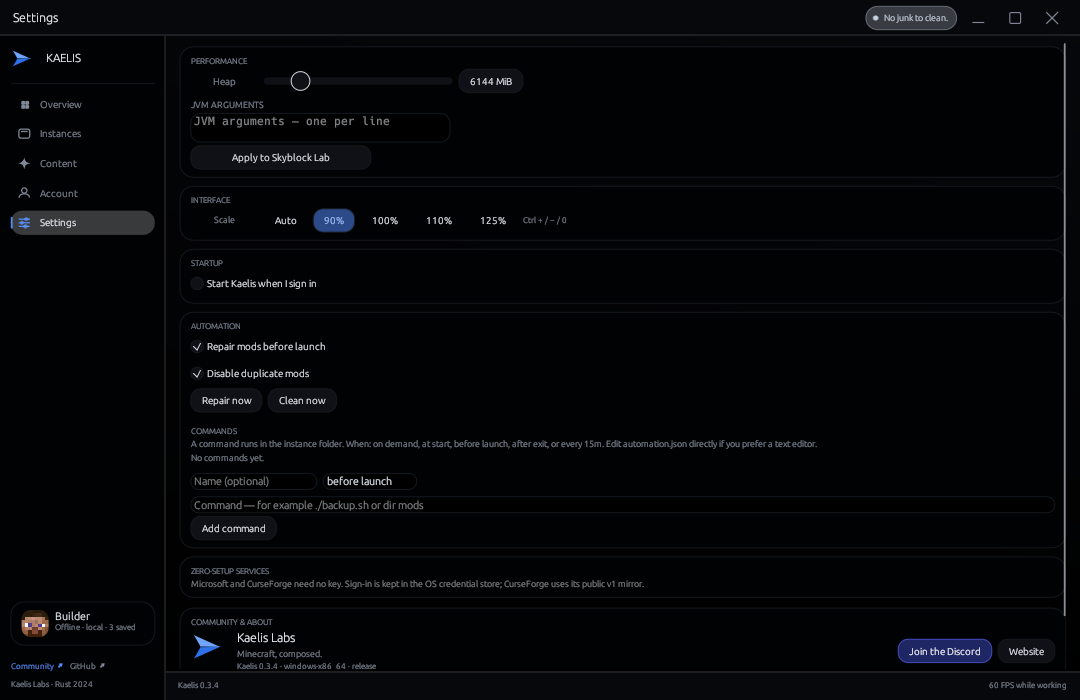
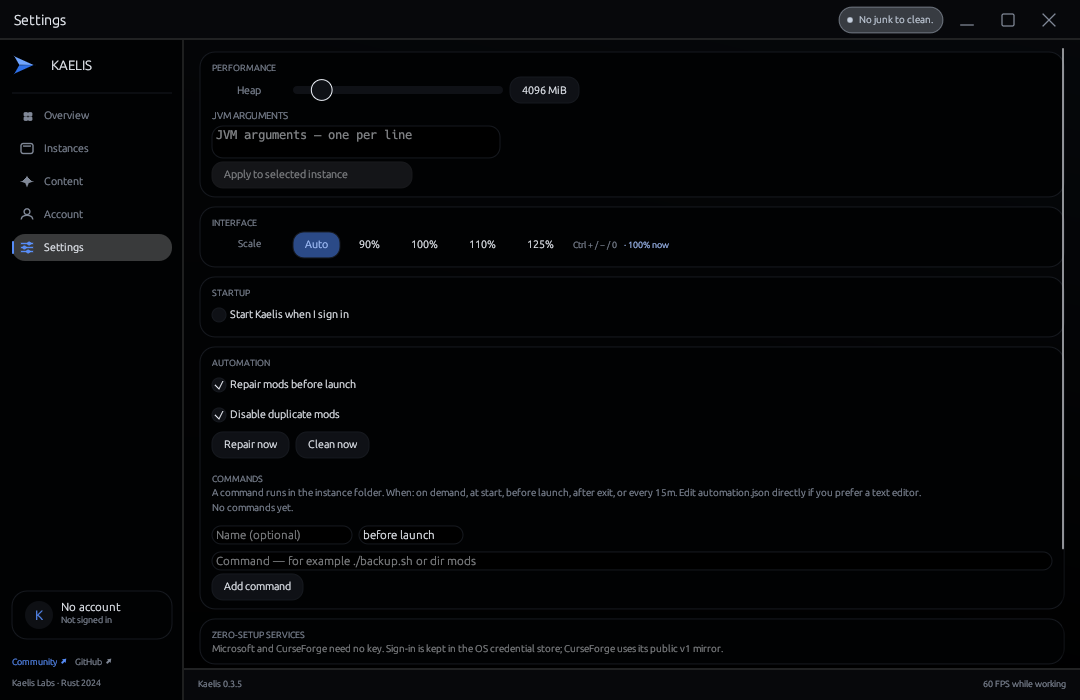
Let the window be made short and cut two waits
The 520 pt height floor came from the first-launch guess, not from the
layout, and the same number guarded the restore check, so a short window
was both blocked at the edge and thrown away on restart. The floor is now
320 pt: header, footer, margins, and the 220 pt body the Content browser
needs, with every other page scrolling. The sidebar also picks its
identity block from the room the tab list leaves, so nothing overlaps
Settings on a short window, and a signed-out avatar reads K instead of
the N it took from "No account". Content search starts after a 200 ms
typing pause instead of 450 ms, and macOS and Linux notice a finished
game every 100 ms instead of 300 ms.

Generated with Codebuff 🤖

diff --git a/site/index.html b/site/index.html
@@ -40,7 +40,7 @@
         "applicationSubCategory": "Minecraft launcher",
         "operatingSystem": "Windows 10, Windows 11, macOS 11, Linux",
         "processorRequirements": "x86_64 or arm64",
-        "softwareVersion": "0.3.4",
+        "softwareVersion": "0.3.5",
         "softwareRequirements": "Rust 1.85+ to build from source; Java is provisioned automatically",
         "downloadUrl": "https://fuvji.github.io/kaelis/downloads/Kaelis-Portable.zip",
         "installUrl": "https://fuvji.github.io/kaelis/#downloads",
@@ -424,7 +424,7 @@
     <div class="shell" id="top">
       <section class="hero" aria-labelledby="hero-title">
         <div>
-          <span class="eyebrow"><i></i>v0.3.4 · Windows · macOS · Linux</span>
+          <span class="eyebrow"><i></i>v0.3.5 · Windows · macOS · Linux</span>
           <h1 id="hero-title">Minecraft,<br><em>composed.</em></h1>
           <p class="lede">Instances, mods, packs, shaders, and accounts in one native workspace. Files stay local. Nothing runs in the background.</p>
           <div class="hero-actions">
@@ -599,7 +599,7 @@
         </div>
 
         <div class="downloads-foot">
-          <span><b style="color:var(--text)">New in 0.3.4</b> · <b style="color:var(--text)">smoothly rounded corners</b> come from the compositor instead of a transparent surface, the window controls are drawn as strokes in the system's own shapes, and <b style="color:var(--text)">every drop shadow is gone</b> — flat surfaces and hairlines do the separating. The window surface is opaque now, which removes a full-surface alpha blend from every frame. <b style="color:var(--text)">The launcher remembers how it was left</b>: the window reopens at the size it was last settled on, and snapshots, alpha and beta versions, required dependencies, the search providers, and search-as-you-type all reopen where they were set. The window is now a <b style="color:var(--text)">frameless overlay</b> — drag its own header to move it, double-click to maximize or restore, one control each to minimize, maximize, and close, and resizing from every edge and corner. Descriptions across the launcher are one line each. Everything from 0.3.1 remains: Play repairs a missing JVM, client jar, library, or loader before it launches, Minecraft's own telemetry is forced off, and Auto Erase Junk keeps every instance clean at 0.00% idle cost.</span>
+          <span><b style="color:var(--text)">New in 0.3.5</b> · <b style="color:var(--text)">the window goes as short as you want</b> — the minimum height drops from 520 to 320 points and a small window is now remembered small instead of snapping back, with the drag limit read straight from the running window at 760×320. The <b style="color:var(--text)">sidebar stops overlapping itself</b>: below 88 points of room the account card becomes the one-button avatar, so all five tabs stay reachable at any height. <b style="color:var(--text)">Two waits are gone</b>: a typing pause in Content searches after 200 ms instead of 450 ms, and macOS and Linux notice a finished game every 100 ms instead of every 300 ms. Everything from 0.3.4 remains: rounded corners from the compositor, stroke-drawn controls with no drop shadows, an opaque surface, remembered window size and switches, and the frameless overlay. From 0.3.1: Play repairs a missing JVM, client jar, library, or loader before launch, Minecraft's own telemetry is forced off, and Auto Erase Junk keeps every instance clean at 0.00% idle cost.</span>
           <span>Every tag builds all three platforms in CI and publishes checksums.</span>
           <a href="downloads/KAELIS-LINKS.txt">URL &amp; install index ↗</a>
           <a href="https://github.com/fuvji/kaelis/releases/latest" rel="noreferrer">All releases ↗</a>
@@ -610,9 +610,9 @@
           <summary>Checksums and build provenance</summary>
           <div class="body">
             <p style="margin:0;color:var(--muted);font-size:13px">Every artifact is hashed at release time. Published files: <a href="downloads/SHA256SUMS.txt" style="color:var(--accent-soft)">SHA256SUMS.txt</a> and the generated <a href="downloads/KAELIS-LINKS.txt" style="color:var(--accent-soft)">URL &amp; installation index</a>.</p>
-            <div class="hash"><span>Kaelis.exe</span><code data-release="exe-hash">f323426615ece54a4977a5f367b9f096a34cee6f3187633c9fbe0275c5e68444</code></div>
-            <div class="hash"><span>Kaelis-Portable.zip</span><code data-release="zip-hash">071ccbcd7d067a83573c4ab04b655b1f0f26b1743e074de1c756b2181dcf6aac</code></div>
-            <div class="hash"><span>Kaelis-Setup.exe</span><code data-release="setup-hash">732a9c026ee9544e8a338070ee098b20a81eea8e59c8b97be6545df47af4ab1a</code></div>
+            <div class="hash"><span>Kaelis.exe</span><code data-release="exe-hash">dae96fcd2382e621e5dc185c662ecaa682287edc78b9754ba5259c641e907f01</code></div>
+            <div class="hash"><span>Kaelis-Portable.zip</span><code data-release="zip-hash">2e1f70ad4cc2943922639ac2ac864cc06b95db3a7474d523db7a53e0f2c90533</code></div>
+            <div class="hash"><span>Kaelis-Setup.exe</span><code data-release="setup-hash">e1646abccfb85fe9543e88d0603dd68c15bd714d9b2864702d0e40896579dd62</code></div>
             <div class="hash"><span>Kaelis-macos-universal.dmg</span><code data-release="dmg-hash">6fa2fda1b93f2c01228da3073ce18f3722b7e650bbcd4703eabbe5e7a2b2e9f7</code></div>
             <div class="hash"><span>Kaelis-linux-x64.deb</span><code data-release="deb-hash">e2510545e116a6c29daa32eebc9da1629bff25c4fa14be307cd2de3a57ae3d0d</code></div>
             <div class="hash"><span>Kaelis-linux-x64.AppImage</span><code data-release="appimage-hash">0c34a7aaba346aeb68a284834321db24a72d3fc2fe1f172871d3921c289cea52</code></div>

diff --git a/crates/kaelis-gui/src/lib.rs b/crates/kaelis-gui/src/lib.rs
@@ -96,7 +96,11 @@ const INSTANCE_ICON_BYTES: u64 = 8 * 1024 * 1024;
 /// Stored artwork edge. 256 px covers a 96 px card at 2x and stays small.
 const ARTWORK_EDGE: u32 = 256;
 /// Typing pauses this long before the mod browser queries both platforms.
-const MOD_SEARCH_DEBOUNCE: std::time::Duration = std::time::Duration::from_millis(450);
+///
+/// Long enough to fold a burst of keystrokes into one request, short enough
+/// that the first result does not feel like a wait; an explicit Enter still
+/// searches on the spot.
+const MOD_SEARCH_DEBOUNCE: std::time::Duration = std::time::Duration::from_millis(200);
 /// Results requested per provider per page. Paging, not truncation, is what
 /// keeps the catalogue browsable.
 const MOD_SEARCH_LIMIT: u32 = 30;
@@ -6188,7 +6192,17 @@ impl KaelisApp {
                     ui.add_space(1.0);
                 }
                 ui.with_layout(egui::Layout::bottom_up(egui::Align::LEFT), |ui| {
-                    if rail {
+                    // The identity block is chosen from what the tab list left
+                    // behind, not from a window height: a short window then
+                    // keeps every tab reachable instead of letting the card
+                    // paint over Settings. The rail always takes the compact
+                    // form because its labels do not fit at all.
+                    const FULL_IDENTITY_HEIGHT: f32 = 88.0;
+                    let room = ui.available_height();
+                    if room < 30.0 {
+                        // Not even one button fits; the Account tab above is
+                        // the same destination.
+                    } else if rail || room < FULL_IDENTITY_HEIGHT {
                         // One 30 px identity button: the same click target as
                         // the full card, without a label that cannot fit.
                         let (rect, response) = ui.allocate_exact_size(
@@ -6210,7 +6224,7 @@ impl KaelisApp {
                             ui.painter().text(
                                 rect.center(),
                                 egui::Align2::CENTER_CENTER,
-                                self.account_name().chars().next().unwrap_or('K'),
+                                self.account_initial(),
                                 egui::FontId::proportional(13.0),
                                 accent(),
                             );
@@ -6263,7 +6277,7 @@ impl KaelisApp {
                                     ui.painter().text(
                                         rect.center(),
                                         egui::Align2::CENTER_CENTER,
-                                        self.account_name().chars().next().unwrap_or('K'),
+                                        self.account_initial(),
                                         egui::FontId::proportional(13.5),
                                         accent(),
                                     );
@@ -6314,6 +6328,18 @@ impl KaelisApp {
 
     /// Short identity line for the sidebar card. The saved count makes a
     /// multi-account setup visible without opening the tab.
+    /// One letter for the avatar disc. Signed out there is no identity to
+    /// initial, and the first letter of "No account" read as an N, which looks
+    /// like a real profile; the brand mark is the honest placeholder.
+    fn account_initial(&self) -> char {
+        let signed_in = self.microsoft_session.is_some() || self.offline_account.is_some();
+        if signed_in {
+            self.account_name().chars().next().unwrap_or('K')
+        } else {
+            'K'
+        }
+    }
+
     fn account_kind(&self) -> String {
         let base = if self.microsoft_session.is_some() {
             "Microsoft · online"

diff --git a/crates/kaelis-launcher/src/main.rs b/crates/kaelis-launcher/src/main.rs
@@ -1743,6 +1743,15 @@ fn renderer_attempts(requested: Option<&str>) -> Vec<(eframe::Renderer, &'static
     }
 }
 
+/// Smallest window the launcher will let itself be dragged down to.
+///
+/// The height is what is left once the fixed chrome is removed: the header
+/// strip, the footer, the central margins, and the 220 pt floor the Content
+/// browse body sets for its two panes. Every page body outside that floor
+/// scrolls, so nothing has to grow to fit — the old 520 pt floor was inherited
+/// from the first-launch guess and only stopped the window being made short.
+const MIN_WINDOW_SIZE: [f32; 2] = [760.0, 320.0];
+
 /// The inner size to open the window at.
 ///
 /// Only a plausible saved size is restored: below the window's own minimum, or
@@ -1750,7 +1759,8 @@ fn renderer_attempts(requested: Option<&str>) -> Vec<(eframe::Renderer, &'static
 /// is used instead. `[0.0, 0.0]` means "never resized", so a first launch is
 /// never a guess.
 fn restored_window_size(saved: [f32; 2]) -> [f32; 2] {
-    if (760.0..=8192.0).contains(&saved[0]) && (520.0..=8192.0).contains(&saved[1]) {
+    let [min_width, min_height] = MIN_WINDOW_SIZE;
+    if (min_width..=8192.0).contains(&saved[0]) && (min_height..=8192.0).contains(&saved[1]) {
         saved
     } else {
         [1080.0, 700.0]
@@ -1777,7 +1787,7 @@ fn native_options(
             // Fits a 1366×768 laptop with the taskbar visible; eframe restores
             // the last size and position once the window has been moved.
             .with_inner_size(window_size)
-            .with_min_inner_size([760.0, 520.0])
+            .with_min_inner_size(MIN_WINDOW_SIZE)
             // The launcher draws its own header strip, drag handle, and window
             // controls, so the native title bar is redundant chrome: removing
             // it leaves the panel edge to edge and takes the OS frame's work
@@ -1839,8 +1849,8 @@ fn fail(message: String) -> ExitCode {
 #[cfg(test)]
 mod tests {
     use super::{
-        Action, MAX_REDIRECTS, parse_args, redirect_chain_is_allowed, renderer_attempts,
-        restored_window_size,
+        Action, MAX_REDIRECTS, MIN_WINDOW_SIZE, parse_args, redirect_chain_is_allowed,
+        renderer_attempts, restored_window_size,
     };
     use reqwest::Url;
 
@@ -1851,10 +1861,17 @@ mod tests {
     #[test]
     fn a_saved_window_size_is_restored_only_when_it_is_plausible() {
         assert_eq!(restored_window_size([1440.0, 900.0]), [1440.0, 900.0]);
+        // A short window is a choice, not corruption: the height floor has to
+        // track the window's own minimum or a resize would be undone on restart.
+        assert_eq!(
+            restored_window_size([900.0, MIN_WINDOW_SIZE[1]]),
+            [900.0, MIN_WINDOW_SIZE[1]]
+        );
         // Never resized: the default that fits a 1366×768 laptop.
         assert_eq!(restored_window_size([0.0, 0.0]), [1080.0, 700.0]);
         // Below the window's own minimum, or nonsense from a corrupt file.
         assert_eq!(restored_window_size([320.0, 200.0]), [1080.0, 700.0]);
+        assert_eq!(restored_window_size([900.0, 200.0]), [1080.0, 700.0]);
         assert_eq!(restored_window_size([99_999.0, 10.0]), [1080.0, 700.0]);
         assert_eq!(restored_window_size([f32::NAN, 900.0]), [1080.0, 700.0]);
     }

diff --git a/crates/kaelis-core/src/running.rs b/crates/kaelis-core/src/running.rs
@@ -286,10 +286,12 @@ mod imp {
     }
 
     pub(super) fn wait(pid: u32, started: u64) {
-        // Polling a gone-pid check costs one syscall per 300 ms and needs no
-        // /proc parsing; a game exits once, so the loop is short-lived.
+        // One syscall every 100 ms, no /proc parsing. The shorter step is what
+        // the user feels: it is the lag between quitting the game and the
+        // launcher coming back, and ten checks a second costs nothing while a
+        // game is running.
         while validate(pid, started) {
-            std::thread::sleep(std::time::Duration::from_millis(300));
+            std::thread::sleep(std::time::Duration::from_millis(100));
         }
     }
 }

diff --git a/README.md b/README.md
@@ -1,6 +1,6 @@
 # Kaelis - Fastest & Lightest Minecraft Launcher
 
-![Version](https://img.shields.io/badge/version-0.3.4-70a5ff)
+![Version](https://img.shields.io/badge/version-0.3.5-70a5ff)
 ![Platforms](https://img.shields.io/badge/platforms-Windows%20%7C%20macOS%20%7C%20Linux-2e70e8)
 ![License](https://img.shields.io/badge/license-MIT-8b949e)
 ![Idle CPU](https://img.shields.io/badge/idle%20CPU-0.00%25-3fb950)
@@ -108,7 +108,25 @@ same machine recorded 362 ms for 0.1.3 on a different day without any change to
 the window path, so a number that looks slower here is the machine, not the
 launcher. The working set and handle count are the figures that stay stable.
 
-## What's new in 0.3.4
+## What's new in 0.3.5
+
+- **The window can be made short again.** The minimum height drops from 520 to
+  320 points, and the restore check reads the same constant, so a window you
+  resize small reopens small instead of snapping back to 1080×700. The floor
+  is what the chrome actually needs: header, footer, margins, and the 220 pt
+  body floor the Content browser sets for its panes. Everything below that
+  scrolls. Read back from the running window, the drag limit is 760×320.
+- **The sidebar stops overlapping itself.** The identity card is replaced by the
+  30 px avatar button when the tab list leaves less than 88 pt below it, so a
+  short window still shows all five tabs. Signed out, that disc reads `K`
+  instead of the `N` it was taking from the words "No account".
+- **Two waits removed.** A typing pause in the Content browser now starts its
+  search after 200 ms instead of 450 ms, and on macOS and Linux the launcher
+  notices a finished game every 100 ms instead of every 300 ms (Windows was
+  already event-driven). Neither changes what is sent or how often a game is
+  polled while it runs.
+
+### From 0.3.4
 
 - **Smoothly rounded corners, from the compositor.** The window asks Windows 11
   for rounded corners and a border-less edge, so the rounding happens at
